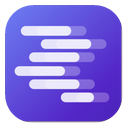
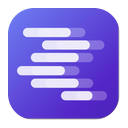
feat(apps): every catalog tile on Colloid's plate
The tile is Colloid's, 56 of 64 inset 4 with a corner of 13, so a
catalog icon is a Colloid icon's size; each mark scales with it and
keeps its weight.

diff --git a/docs/CONTRACTS.md b/docs/CONTRACTS.md
@@ -188,7 +188,7 @@ A Project pin is the main tool of a Suite (`kubaos_core::pins::main_tool`: its m
 
 The apps KubaOS installs well, each from one pinned, verified source; ADR 0008 has why, ADR 0009 how: an app is a folder of typed actions, each with its inverse, recorded in a journal.
 
-- **An app's folder.** `apps/<id>/app.toml`, beside the files its actions use (templates, a `run`'s scripts, a web app's icon). A file there another project wrote names its licence by its SPDX identifier in its header comment (an SVG's first `<!-- -->`, else its first `#` lines), and the licence's text is in `LICENSES/<id>.txt` unless it is the repository's own (MIT, Apache-2.0); a picture names its licence even when it is ours, or, for a vendor's logo under no open licence, says it is the vendor's trademark, used to identify the app, and names the address it was taken from, and needs no `LICENSES/` file; `apps::tests` checks both. An app's icon is, in this order: Colloid's, by name; else the vendor's official logo or app icon, its own SVG (its brand or press kit, its site's manifest or favicon, or Wikimedia Commons' copy checked against the official mark), never redrawn or recoloured, only placed on the catalog's tile (`x`/`y` 20, 460 square, `rx` 110, clipped to it) at the visual weight of the others, judged by eye at 32 px: a bare mark on white, a mark that needs its vendor's dark tile on that tile's colour; else original art, the repository's licence; else none. A logo the vendor publishes only as a raster ships as a PNG on the same tile, its source and trademark in the PNG's `Comment` text chunk, where an SVG has its header. The id is the folder's name: lowercase letters, digits and `-`, starting with a letter or digit, at most 64. Its keys: `name`; `category`, one of `browsers`, `development`, `ai`, `communication`, `media`, `graphics`, `office`, `security`, `system`, `games`; `tags`, at least one search word, lowercase words, each once (keywords of the app's Install Item only); `summary`, one line of ours, in KubaOS's voice (`docs/BRAND.md`), saying what the app is; `description`, the app's own words from its upstream where the source's licence allows copying them, else a plain factual one of KubaOS's, and `description_from`, the `https://` URL they came from, or `"kubaos"` for one KubaOS wrote (all five required); optionally `icon`, the icon theme's name for it (letters, digits, `-`, `_` and `.`, not ending in `.svg`, `.png`, `.xpm`, `.jpg` or `.jpeg`), or a picture of the folder named `<icon name>.svg`, `.png`, `.jpg` or `.jpeg`, square (a PNG one of the sizes `hicolor`'s `index.theme` has a folder for: 16, 22, 24, 32, 36, 48, 64, 72, 96, 128, 192, 256 or 512), an `.svg` or `.png` of which the install puts in the theme, a step after the app's own install-stage actions and before a setup's ("Put <Name>'s icon in place", a `file` to `~/.local/share/icons/hicolor/scalable/apps/<icon name>.svg`, or for a PNG to `hicolor/<N>x<N>/apps/<icon name>.png` by its size, its bytes journaled as base64 as any `file` whose source isn't text, so a desktop entry naming the icon finds it whatever the theme; the icon theme reads no JPEG, so a `.jpg` installs nothing and is shown from the folder alone), and which `kubaos app status` and the Command menu name by its path in the catalog, there before the app is; or, for an app with no logo and never beside an `icon`, `symbol`, the Tabler name of one of KubaOS Symbols (`design/tokens.toml`, `[symbols]`, which `kubaos-core` embeds, so the catalog names only a symbol the shell draws), which installs nothing: `kubaos app status --json` gives it as `symbol`, the KubaOS Symbol's own name (`gauge` is `speed`), and the Command menu's Item as the icon `symbol:<name>`, which the menu's row and detail pane draw as their tile's symbol; `[[ready]]` (`check`, an argv run as the user in the folder, its words filled in; `says`, the sentence when it fails), checked before an install or a removal changes anything, and only then: an installed app every step of which stands needs none; `requires`, the apps installed first (below); `keeps`, the sentence a removal ends with about what it leaves on purpose (the user's data); `[[action]]`s in order; and `[setup.<id>]` (`name`, the app as the menu names it in that setup; `summary`; its own `requires`, `keeps`, `[[setup.<id>.ready]]` and `[[setup.<id>.action]]`, after the app's), at least two setups or none. An app with setups has no default: everything that installs it names one. An action's `stage` is `install` (the default) or `configure`. Step `n` of an install is the `n`th of the install stage's actions, the app's then its setup's, then the configure stage's in the same order. Unknown keys are refused; `cargo test -p kubaos-core apps` validates every shipped folder, its repositories, its files and scripts on both architectures.
+- **An app's folder.** `apps/<id>/app.toml`, beside the files its actions use (templates, a `run`'s scripts, a web app's icon). A file there another project wrote names its licence by its SPDX identifier in its header comment (an SVG's first `<!-- -->`, else its first `#` lines), and the licence's text is in `LICENSES/<id>.txt` unless it is the repository's own (MIT, Apache-2.0); a picture names its licence even when it is ours, or, for a vendor's logo under no open licence, says it is the vendor's trademark, used to identify the app, and names the address it was taken from, and needs no `LICENSES/` file; `apps::tests` checks both. An app's icon is, in this order: Colloid's, by name; else the vendor's official logo or app icon, its own SVG (its brand or press kit, its site's manifest or favicon, or Wikimedia Commons' copy checked against the official mark), never redrawn or recoloured, only placed on the catalog's tile, Colloid's plate so a catalog icon is a Colloid icon's size (56 of 64 inset 4, corner 13: on a 500 grid `x`/`y` 31.25, 437.5 square, `rx` 101.5625, clipped to it) at the visual weight of the others, judged by eye at 32 px: a bare mark on white, a mark that needs its vendor's dark tile on that tile's colour; else original art, the repository's licence; else none. A logo the vendor publishes only as a raster ships as a PNG on the same tile, its source and trademark in the PNG's `Comment` text chunk, where an SVG has its header. The id is the folder's name: lowercase letters, digits and `-`, starting with a letter or digit, at most 64. Its keys: `name`; `category`, one of `browsers`, `development`, `ai`, `communication`, `media`, `graphics`, `office`, `security`, `system`, `games`; `tags`, at least one search word, lowercase words, each once (keywords of the app's Install Item only); `summary`, one line of ours, in KubaOS's voice (`docs/BRAND.md`), saying what the app is; `description`, the app's own words from its upstream where the source's licence allows copying them, else a plain factual one of KubaOS's, and `description_from`, the `https://` URL they came from, or `"kubaos"` for one KubaOS wrote (all five required); optionally `icon`, the icon theme's name for it (letters, digits, `-`, `_` and `.`, not ending in `.svg`, `.png`, `.xpm`, `.jpg` or `.jpeg`), or a picture of the folder named `<icon name>.svg`, `.png`, `.jpg` or `.jpeg`, square (a PNG one of the sizes `hicolor`'s `index.theme` has a folder for: 16, 22, 24, 32, 36, 48, 64, 72, 96, 128, 192, 256 or 512), an `.svg` or `.png` of which the install puts in the theme, a step after the app's own install-stage actions and before a setup's ("Put <Name>'s icon in place", a `file` to `~/.local/share/icons/hicolor/scalable/apps/<icon name>.svg`, or for a PNG to `hicolor/<N>x<N>/apps/<icon name>.png` by its size, its bytes journaled as base64 as any `file` whose source isn't text, so a desktop entry naming the icon finds it whatever the theme; the icon theme reads no JPEG, so a `.jpg` installs nothing and is shown from the folder alone), and which `kubaos app status` and the Command menu name by its path in the catalog, there before the app is; or, for an app with no logo and never beside an `icon`, `symbol`, the Tabler name of one of KubaOS Symbols (`design/tokens.toml`, `[symbols]`, which `kubaos-core` embeds, so the catalog names only a symbol the shell draws), which installs nothing: `kubaos app status --json` gives it as `symbol`, the KubaOS Symbol's own name (`gauge` is `speed`), and the Command menu's Item as the icon `symbol:<name>`, which the menu's row and detail pane draw as their tile's symbol; `[[ready]]` (`check`, an argv run as the user in the folder, its words filled in; `says`, the sentence when it fails), checked before an install or a removal changes anything, and only then: an installed app every step of which stands needs none; `requires`, the apps installed first (below); `keeps`, the sentence a removal ends with about what it leaves on purpose (the user's data); `[[action]]`s in order; and `[setup.<id>]` (`name`, the app as the menu names it in that setup; `summary`; its own `requires`, `keeps`, `[[setup.<id>.ready]]` and `[[setup.<id>.action]]`, after the app's), at least two setups or none. An app with setups has no default: everything that installs it names one. An action's `stage` is `install` (the default) or `configure`. Step `n` of an install is the `n`th of the install stage's actions, the app's then its setup's, then the configure stage's in the same order. Unknown keys are refused; `cargo test -p kubaos-core apps` validates every shipped folder, its repositories, its files and scripts on both architectures.
   Every action has `name`, the step the user sees, and `kind`, one of `apt` (`packages`, a package of another architecture than the machine's as apt names it, `libgl1:i386`, which the catalog check refuses unless an `architecture` step before it in the same install adds that architecture, `repo`, `arch`, `amd64`/`arm64` `{ packages }`: the packages one architecture installs beside `packages`, as a virtual machine's QEMU and firmware are each architecture's own, refused beside an `arch`, and resolved into `packages`, so a journal records the machine's one list; `versions`: the pattern of the versions that are the app's, `*` any run of characters, as Mozilla's firefox is `*~build*`; a package of the action dpkg has at another version is another build of the name, not installed, which the install replaces, moving it down if it must, and a removal leaves; done when its packages are installed and, with a `repo`, the repository is set up as KubaOS sets it up: `/etc/apt/sources.list.d/<repo>.sources`, not turned off with `Enabled: no`, whose `Signed-By` names the manifest's `keyring` and no keyring but it and `next_keyring`, each it names there, so a vendor writing the file again with the one key its build signs with (Vivaldi's postinst and daily job) leaves it set up; packages a vendor's own setup brought are found, not owned, while the step sets the repository up, which turns off the vendor's own source of it), `deb` (`package`, `version`, `self_updates`, `amd64`/`arm64` `{ url, sha256 }`), `nix` (`packages`, `arch`, `unfree`: true for a package nixpkgs marks unfree; refused, nothing changed, on another architecture or, when unfree, while the user's nixpkgs refuses unfree packages, `kubaos package unfree off`, as its name would fail the home's switch), `download` (`to`, `version`, `unpack` `file`, `tar-gz`, `tar-zst` (tar's `--zstd`, which runs `zstd`: the catalog check refuses one without an `apt` step installing `zstd` before it in the same install) or `tar-xz` (tar's `--xz`, which runs `xz`, of `xz-utils`, which the base's always-on `nix` group installs on every machine, so it needs no step), `strip`, `self_updates`, `amd64`/`arm64`; a tarball unpacked with no owner or mode of the archive's, then writable by its owner only; done when `to` is there and the journal's step recorded the pin it has now, so a changed pin downloads it again, over the old one at a `to` without `@VERSION@`, a file or a folder whichever `unpack` either pin has, and a copy a stopped run left aside goes with the next download; with `self_updates`, a `to` naming `@VERSION@` is also done when the same path is there in the folder of a newer version beside it, as a vendor's updater that removed the pin left it, and a `to` naming none is done whenever it is there, as a vendor's updater rewrites it in place, so a new pin reaches new installs only; such a `to` that names its version all the same, as a literal, is refused; which of the two a `to` is, the folder's `to` says before its words are filled in, as a user's name may hold the version's text, and the journal keeps it as `in_place`, its own, which a folder setting is refused), `file` (`to`, `from` a file in the folder or `text`, `template`, `mode`, `vendor_keys`: true for a file the vendor's package writes too, as `key=value` lines, so one already there that sets no key but the text's is the vendor's: the step writes the text over it and owns nothing, and a removal leaves it; a unit file in `/etc/systemd/system/` or `~/.config/systemd/user/` reloads its manager and, while its unit runs, restarts it, so it runs what the file says), `symlink` (`to`, `target`), `setting` (`file` a `.json`, `.toml` or `.conf` under `~`, a dotted `key` (in a `.conf`, one name without `.`, `=` or `#`), a string, number or boolean `value`; the file edited in its own format and only at the key, TOML's comments, layout and types kept, JSON edited in place in its text, its indentation, line endings, spacing, key order and other values' text kept, and a key there twice taken out whole; a `.conf` is flat `key = value` lines, as Sunshine's `sunshine.conf`, a `#` anywhere starting a comment to the line's end as Sunshine's own reader cuts it, the value the text between the `=` and the comment, trimmed, written bare (a value with a `#` or a line break refused), replaced where it stands with the line's comment kept (a value already set leaves the line as it is) or added last, and a key's later lines taken out; a file that isn't settings of its format, a key under a non-table value or a key that is a table refused, never rewritten), `unit` (`unit`, `scope` `user` or `system`, `enable`, `start`; `start = true` is done while the unit runs, or once a oneshot (`Type=oneshot` without `RemainAfterExit`) ran since boot and exited cleanly; another service that is inactive is not started, however cleanly it stopped), `group` (`group`), `linger`, `dkms` (`module`, DKMS's name for it and the one kernel module it builds, lowercase letters, digits, `-` and `_`; `version`; `url` and `sha256`, a gzipped tarball of its source; `strip`, the tarball's leading folders left out; `folder`, the one of the unpacked tarball that holds the module, when it isn't its top; `conf`, a file of the folder written as the source's `dkms.conf`, its words filled in, `@VERSION@` the module's version, read into the journal's `conf_text`, which a folder setting is refused; root's: the source checked, unpacked and moved whole to `/usr/src/<module>-<version>`, `dkms add`, then `dkms install --force` for each kernel with its headers, `/lib/modules/<kernel>/build`, that lacks the module or has it unsigned while DKMS has a MOK; done while the source is there from the pin the journal's step recorded and DKMS has it installed for each such kernel, signed with the MOK DKMS signs with (its configuration, `/etc/dkms/framework.conf` and `framework.conf.d/*.conf`, as below), `modinfo -F sig_key` its certificate's serial, so a kernel DKMS's autoinstall built it for unsigned is built again at the next update; refused, rolled back, when no kernel has its headers or a kernel still has it unsigned; a step that stands says, at every run that reaches it, while Secure Boot is on and the MOK isn't enrolled, to run `sudo mokutil --import <certificate>` and pick Enroll MOK on the blue MokManager screen at the next boot, or, the key queued, to pick it there, never driving that screen; a kernel its `dkms.conf` leaves out (`BUILD_EXCLUSIVE_*`, `dkms install` exiting 77) is skipped with a note, and tried again at each run; a source put in place anew (a new pin at the same version) is built again for every kernel; the certificate is DKMS's: `mok_signing_key` and `mok_certificate` as its configuration sets them, through a variable (`$kernelver`) worked out by sourcing the files, refused unless root alone may write each and `/etc/dkms` and `framework.conf.d`, in bash with `kernelver` and `arch` set as DKMS sets them, a step whose files fail to source or name no path failing saying so; then as DKMS 3.2's `prepare_mok` on Ubuntu: no signing key is shim-signed's `/var/lib/shim-signed/mok/MOK.der` whatever the certificate says, a key with no certificate `/var/lib/dkms/mok.pub`; undo: the module unloaded with `modprobe -r` when it is loaded and nothing uses it, no handle (`refcnt`) and no device bound to its drivers (`/sys/module/<module>/drivers/*`), else a note says it stays loaded until the restart, never at a version bump, whose new build replaces it; then `dkms remove --all` and the source; claims `dkms:<module>/<version>` and the source's `path:`; one DKMS had before is found and owns nothing; a changed version is updated in place, the new one built before the old one goes), `architecture` (`architecture`, one of `amd64`, `arm64`, `armhf` and `i386`, root's: `dpkg --add-architecture`, then `apt-get update`; done while dpkg takes it, or it is the machine's own, which is found; its claim `arch:<architecture>` passes between apps as any claim does, so an app that found it owns nothing of it, and the last owner's undo, never of the machine's own architecture, first purges the packages of it the app's own steps brought (their `package:` and `dep:` claims, but those handed to other apps, and the `brought:` claims, owning nothing, a step's undo leaves on the `architecture` step as its own entry goes, so a run stopped between them leaves the next one knowing them), those left with their configuration (`rc`) and those left installed, as apt marks them Essential or Protected or the app's own needed them, while removing them takes nothing else and the user hasn't installed one by name since, by `dpkg --purge --force-remove-essential --force-remove-protected`, which refuses where a package installed since the dry run needs one of them, as nothing of the machine's architecture needs them; then runs `dpkg --remove-architecture` once dpkg has no package of it, else keeps it with a note naming them, installed and configured apart; an app taken in never owns it), `web_app` (`id`, `title` one line with no control characters, `url` an `https://` URL or an `http://` one of `localhost`, `127.0.0.1` or `[::1]` with an explicit port, `icon` an `.svg` in the folder, or the name of an icon of the icon theme (Colloid, on every machine: letters, digits, `-`, `_` and `.`, starting with a letter or a digit, not ending in `.svg`, `.png` or `.xpm`, which the theme's lookup reads as a file's): the user's `~/.local/share/applications/kubaos-web-<id>.desktop`, running `google-chrome --user-data-dir=~/.local/share/kubaos/web-apps/<id> --profile-directory=kubaos-web-<id> --no-first-run --no-default-browser-check --app=<url>`, each `Exec` argument quoted and its `%` doubled per the Desktop Entry spec, with `StartupWMClass` the app id Chrome gives the window on Wayland, `chrome-<host>_<path>-kubaos-web-<id>` (the URL's host, lowercase, without its port; its path, `/` for none, without query or fragment; each of `"*/:<>?\|`, a control character and a space made `_`: `chrome-design.penpot.app__-kubaos-web-penpot`), as `--class` names only an X11 window; its icon, for an `.svg`, at `~/.local/share/icons/hicolor/scalable/apps/kubaos-web-<id>.svg`, `Icon=` its path, and for a theme's name `Icon=<name>` and no file; the browser folder, made by Chrome as the window first opens, holds the window's sign-ins and is the user's: no step claims it, a removal keeps it and a reinstall opens it again), `output` (`path`; found when it is there, else the folders above it made, and owned) and `run` (`do`, `check`, `undo`, argvs, all three required, or `undo` alone: a `run` that only undoes, which an install never runs, settled once its journal records it, so it needs no root again: done and owned in an app KubaOS installed or a picked app taken in, whose removal runs its `undo`, found and owning nothing in a found app, which one its journal doesn't record yet (added by a release, or moved to the other side) takes from the app's other entries, found when every one of them, its side's and for the user's side root's, is found and owns nothing; the entry a move to the other side leaves stale is forgotten, running nothing, when the removal asks its side to undo it, and isn't put back by a rolled-back removal; an entry of it whose step now holds another thing is never undone: it moves, owned as it was, to the folder's own such step of its side that the journal doesn't record yet, else is forgotten, and one that a failed install of a complete app added is kept; `window` and `source` refuse it; `root`; `window`, the sentence of the step left to the user when the run may open no window; `source`, what it installs the app from when it does, `container_images` the one kind a `run` names, and only on an install-stage `run` that is its install's one source: one in the configure stage, or beside an `apt`, `nix`, `deb`, `download` or `web_app` source in the same install, refuses the catalog). `apt` and `deb` simulate first (`apt-get -s`) and refuse, naming the packages, an install that would remove a package or move one but the action's own to a lower version (`Inst <package> [<old>] (<new> …)` with the new version below the old), or a removal that would take one beyond the action's own. What an install's simulation newly installs beyond the action's packages is journaled first as `dep:<name>` (`<name>:<arch>` for a package of another architecture than the machine's), and a removal takes it with them when the user hasn't installed it by name since (`apt-mark showmanual`), apt doesn't mark it important (its control fields, read with `dpkg-query`, say neither `Essential: yes` nor `Protected: yes`, on any architecture: apt's simulation shows such a removal and the removal itself refuses it) and, simulated, removing it takes nothing else, the last dry run being of exactly what apt then removes; never `apt-get autoremove`. An `apt` step's `purge = true` purges its packages and what it pulled in on removal rather than keeping their configuration. Unknown keys are refused. A path is `~/…` or under `/etc/`, `/opt/` or `/usr/local/`, with no `.` or `..` part; strings take `@USER@`, `@HOME@`, `@ARCH@` and `@VERSION@`, the version of the app's downloads, which every `download` of an app, in any setup, shares (the catalog check refuses two), so a `symlink`'s `target` or a template `file` names the version's folder (a `symlink` or template `file` naming it in an app with no download is refused). A `download` may unpack into another's folder, owning only what it adds; a step whose path is in a download's folder comes after that download, which unpacks its folder whole, or the catalog check refuses it. Root runs `apt`, `deb`, `group`, a system `unit`, a `run` with `root = true` and a path outside the home; the user the rest. A `run`'s program is a bare name on `/usr/local/sbin:/usr/local/bin:/usr/sbin:/usr/bin:/sbin:/bin`, `./<script>` in the folder, or, for the user's only, `@HOME@/…`; the user's runs with their environment and home, root's with root's own (`HOME=/root`) and none of the user's. Its `./<script>`s are recorded in the action as it resolves (`scripts`, the journal's own, as a `web_app`'s `svg` is; a folder setting either is refused) and run from a fresh private folder, so an undo runs the script that was done. **Dependencies.** `requires = ["<id>", { id = "<id>", min = "<version>" }]` names apps of the catalog installed first, each through its own folder, actions and journal. The catalog check refuses an id the catalog lacks, the app's own, one twice, a `min` that isn't a dpkg version, a required app with setups, and a circle, naming it (`apps require each other in a circle: a → b → a`). An install's plan is its required apps, each after what it requires, every app once, then the app; a `min` is checked before anything runs against the version the required app's source offers (its first own package: a `deb`'s or `download`'s `version`, the installed one for a self-updating `.deb`; an `apt` package's installed version, else `apt-cache policy`'s candidate), compared as dpkg does, and refused when lower or unknown (`nix`, or a package apt doesn't know yet): "LazyVim can't be installed: it needs Neovim 0.11 or newer, and this machine would get 0.10.2-1". **Sources.** Every install, the app's or each setup's, names at least one source in its install stage, the kinds `kubaos app list` lists (below): an `apt`, `deb`, `nix`, `download` or `dkms` step, a `web_app` on an `https://` website, or a `run` with its `source`; a `web_app` on this machine's address is none. An app installed through a `run` (a Docker Compose stack, a vendor's installer) declares what it installs in that `run`'s `source`; the catalog check refuses an install with none, naming it. **Configure.** A configure step runs as the user and writes only in `~/.config/kubaos/<id>/` (a `file`, `symlink`, `output` or `download` path, a `setting`'s file), or is the user's `run`; anything else is refused.
 - **The catalog's apps.** `kubaos app list` lists them (`kubaos app list --markdown` as a page), and each one's `app.toml` says where it comes from: an `apt` app from Ubuntu's archive or a vendor's signed repository of the package manifest, its key pinned by fingerprint; a `deb` or `download` app from its vendor's release, pinned by sha256 for each architecture; a `nix` app from the User flake's nixpkgs; an app installed through a `run`, from what its `source` names ("Sources", above). An app that does more than install its packages says so in its steps; of those: Google Chrome (`apt` from Google's, amd64; its theme colour follows the wallpaper, "Theme pipeline": the helper `/usr/local/libexec/dot-chrome-theme`, `dot-chrome-theme.path` and `.service` from templates, the policy `/etc/opt/chrome/policies/managed/dot-theme.json` as an `output` made room for before the units start, the path unit enabled and started, the service enabled, so it runs at every boot too, and run). Docker (Docker's five packages; the user in `docker`; `/etc/systemd/system/docker.service.d/kubaos-stop.conf`, the same file `docker_on_demand` puts beside a Docker of the user's own; `docker.service` and `containerd.service` not enabled, `docker.socket` enabled and started, "Boot"). Bitwarden (its release's `.deb`, sha256-pinned, amd64, `self_updates`, as `kubaos update` moves it within its series, "Updates and migrations"; `/etc/xdg/autostart/bitwarden.desktop`, "Secrets"). Penpot, in two setups, each ready only while its window is closed (no browser runs with the web app's folder): `web` ("Penpot"), requiring Google Chrome, a `web_app` on `https://design.penpot.app/`; `local` ("Penpot on this machine"), requiring Docker and Google Chrome, Penpot's official compose stack (2.19.2, every image pinned by digest, every port on `127.0.0.1`, telemetry off) in `/etc/kubaos/penpot/docker-compose.yaml`, the mail catcher's web page unpublished, brought up by a root `run` (`./up`, which makes the session secret `/etc/kubaos/penpot/secret.env` once and lists each pinned image the machine hasn't yet in `/etc/kubaos/penpot/pulled-images` before pulling, both root's alone: one Docker says it has no such image, once however many starts fail, and any other answer of Docker's (a daemon not answering) fails the start, listing nothing; check `./up-to-date`, a container a service, each from a pinned image, compared by image id; undo `./down`: containers, network and the listed images go, an image the machine had before stays, the volumes `penpot_penpot_postgres_v15` and `penpot_penpot_assets` stay, which the removal says), `kubaos-penpot.socket` (`127.0.0.1:9001`, enabled and started; a release that rewrites it restarts it, as any running unit whose file changes, and that stops `kubaos-penpot.service`, which requires it, so an open window loses its connections until its next one starts the service again through `up`, the containers running all along) and `kubaos-penpot.service` (brings the stack up as root through the same `up`, so a pull after a prune is listed too, starting Docker through its socket, then `systemd-socket-proxyd` to the frontend on `127.0.0.1:9002` as a `DynamicUser` with no capabilities, the file system read-only, the homes and devices hidden, and only IP and Unix sockets), and a `web_app` on `http://localhost:9001/`; either setup's removal says the window's sign-in stays in its browser folder. T3 Code (its release's `.deb`, sha256-pinned, `self_updates`), in two setups: `desktop` ("T3 Code"), the `.deb` alone, the desktop app running its own server; `service` ("T3 Code as a service"), ready only while the desktop app isn't running (`pgrep -x t3code`: its own server holds the T3 home, and it writes its settings back over a removal's when it quits), then the `t3` runtime downloaded from the same release's CLI archive (`t3-<version>-linux-x64.tar.gz` or `-linux-arm64`, the sha256 its `SHA256SUMS` lists) to `~/.t3/runtime/versions/<version>` (`tar-gz`, `strip = 1`); `run` `./install-t3` (marks the version whole, `.install-complete`, as T3's installer does, then `t3 install`; check: `~/.local/bin/t3` links into a whole runtime under `~/.t3/runtime/versions/`, whichever `t3 update` moved it to; undo: `t3 uninstall --yes`, which takes the launchers and every runtime version and keeps userdata); `linger`; `run` `t3 service install` (the user unit on this machine only, `T3CODE_LAN=false` in `~/.t3/service.env`, no T3 Connect; check: `systemctl --user is-enabled t3code.service`; undo: `t3 service uninstall`, and the unit stopped and removed if it is still there); `setting` `localEnvironmentEnabled = false` in `~/.t3/userdata/desktop-settings.json`; and `run` `./pair` with `window` "Open T3 Code and run `t3 pair` …": once the service answers (`userdata/server-runtime.json`), a one-time pairing link (`t3 auth pairing create`, labelled "T3 Code on this machine", 15 minutes) opened in T3 Code, which asks once to add the backend on this machine (check: `t3 auth session list --json` has a session from a pairing link, subject `one-time-token`; undo: the step's pairing links no one used revoked, `t3 auth pairing revoke`). Projects, threads, settings and the connection T3 Code saved stay with T3. Remote access (local network, tailnet, T3 Connect) is set from T3 Code itself.
 - **The AI apps.** From their vendors' signed apt repositories, each key pinned in `system/packages.toml`: Claude Desktop (`claude-desktop` and `bubblewrap`, which Claude Code's sandbox needs and the package only recommends, Anthropic's repository `claude-desktop`, signed by Claude Code's key; its package adds no source of its own while another has the repository; Cowork's QEMU, which it only recommends, and the `kvm` group aren't installed), Cursor (`cursor`, the repository `cursor`, whose sources file is byte-identical to the one Cursor's package rewrites on every upgrade and deletes with its key on removal, at the same keyring path, `/usr/share/keyrings/anysphere.gpg`) and Devin Desktop, which was Windsurf (`devin-desktop` and `bubblewrap`, amd64, the repository `windsurf`). From nixpkgs through the User flake: Codex CLI (`codex`), Gemini CLI (`gemini-cli`), GitHub Copilot CLI (`github-copilot-cli`, unfree), opencode (`opencode`), Aider (`aider-chat`), LM Studio (`lmstudio`, unfree) and Voxtype (`voxtype`, whose wrapper brings `wtype`, `dotool` and `wl-clipboard`; its x86-64 build needs AVX2), with its user service `~/.config/systemd/user/voxtype.service` (upstream's unit, `ExecStart=%h/.nix-profile/bin/voxtype daemon`, `WantedBy=graphical-session.target`), installed and removed with it but not enabled: its description says what is left to the user (`voxtype setup --download` for the speech model, `systemctl --user enable --now voxtype`, a bind in `~/.config/kubaos/desktop/hypr/hyprland.lua` running `voxtype record start` on press and `voxtype record stop` on release, or `voxtype record toggle` on one press), its `keeps` names what stays (the models and settings), and its icon is upstream's on a white tile. ChatGPT (`https://chatgpt.com/`, Colloid's `openai` icon), Gemini (`https://gemini.google.com/`), Perplexity (`https://www.perplexity.ai/`) and Grok (`https://grok.com/`) as `web_app`s requiring Google Chrome, each ready only while its window is closed; the last three's icons are their vendors' official ones: Gemini's sparkle on the white tile, Perplexity's and Grok's white marks on their own black tiles' colour. Gemini CLI's icon is Gemini's sparkle and GitHub Copilot CLI's GitHub's Copilot mark (Primer Octicons, MIT), Aider's, opencode's and T3 Code's their projects' own, and Devin Desktop's Devin's mark. Ollama, from its GitHub release's archives (`tar-zst`, each pinned by the sha256 the release's `sha256sum.txt` publishes) in `/opt/ollama/<version>`, `zstd` from Ubuntu's archive before them, `/usr/local/bin/ollama` linking to its program, and its server the system service `ollama.service` (`/etc/systemd/system/ollama.service`: the version's program, `DynamicUser`, `StateDirectory=ollama` with `HOME` and the models, `OLLAMA_MODELS`, in `/var/lib/ollama`, the `render` and `video` groups for the GPUs, `/dev/nvidia-uvm` made first by `nvidia-modprobe -u -c=0` as root, as CUDA can't make it as the server's user, a failure without NVIDIA's driver ignored, the homes hidden, `OLLAMA_HOST=127.0.0.1:11434`; enabled and started, restarted when a release rewrites it), in two setups: `standard` ("Ollama": the CPU, or an NVIDIA card through CUDA) and `amd` ("Ollama for AMD graphics cards", amd64 only: AMD's ROCm libraries, the release's second archive, unpacked into the first's `lib/ollama/rocm_v7_2`); with Colloid's `ollama` icon; its removal keeps the models and says so. A removal leaves each one's data where it is (sign-ins, settings, sessions and models in the home, the web app's in its browser folder) and says so.
